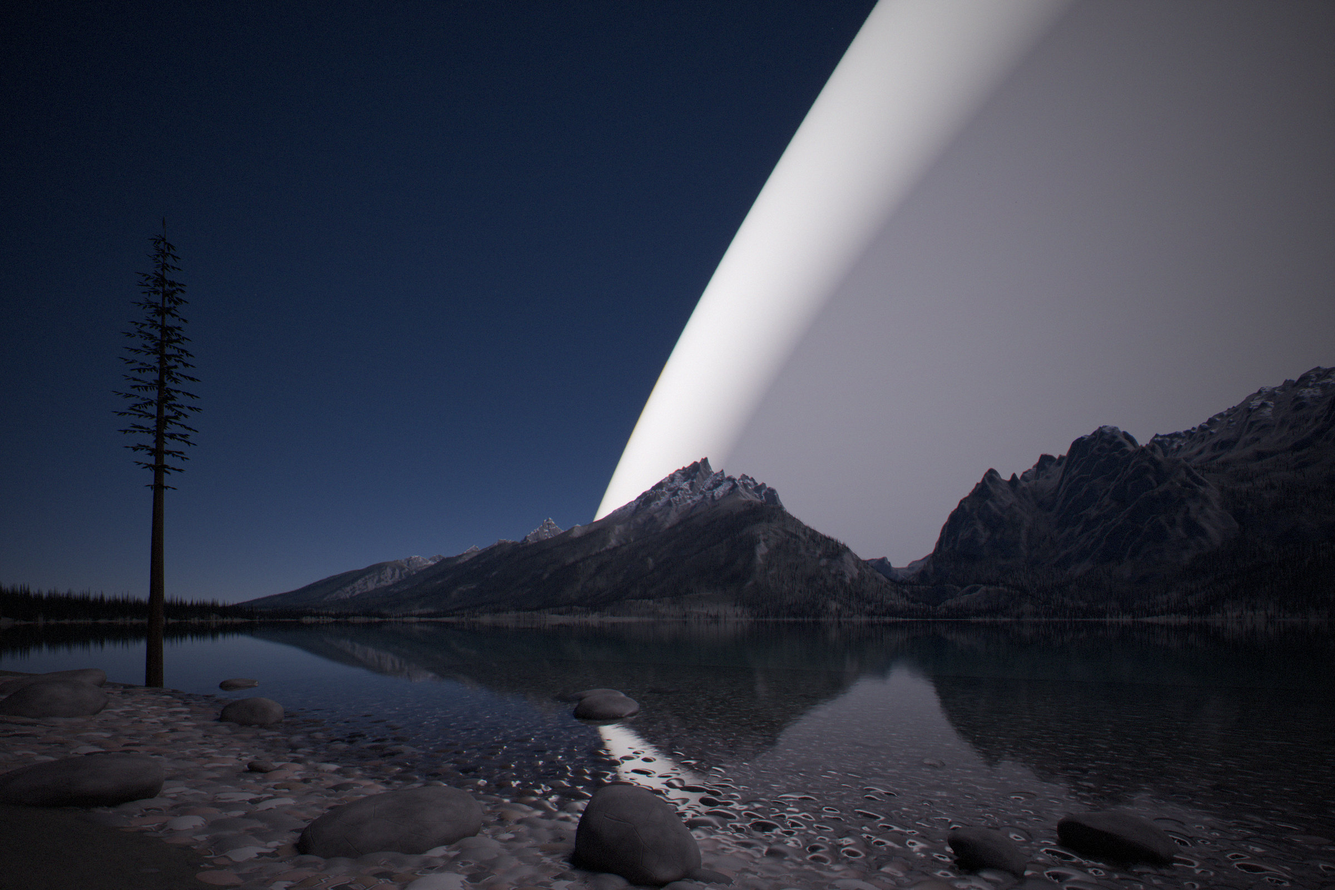
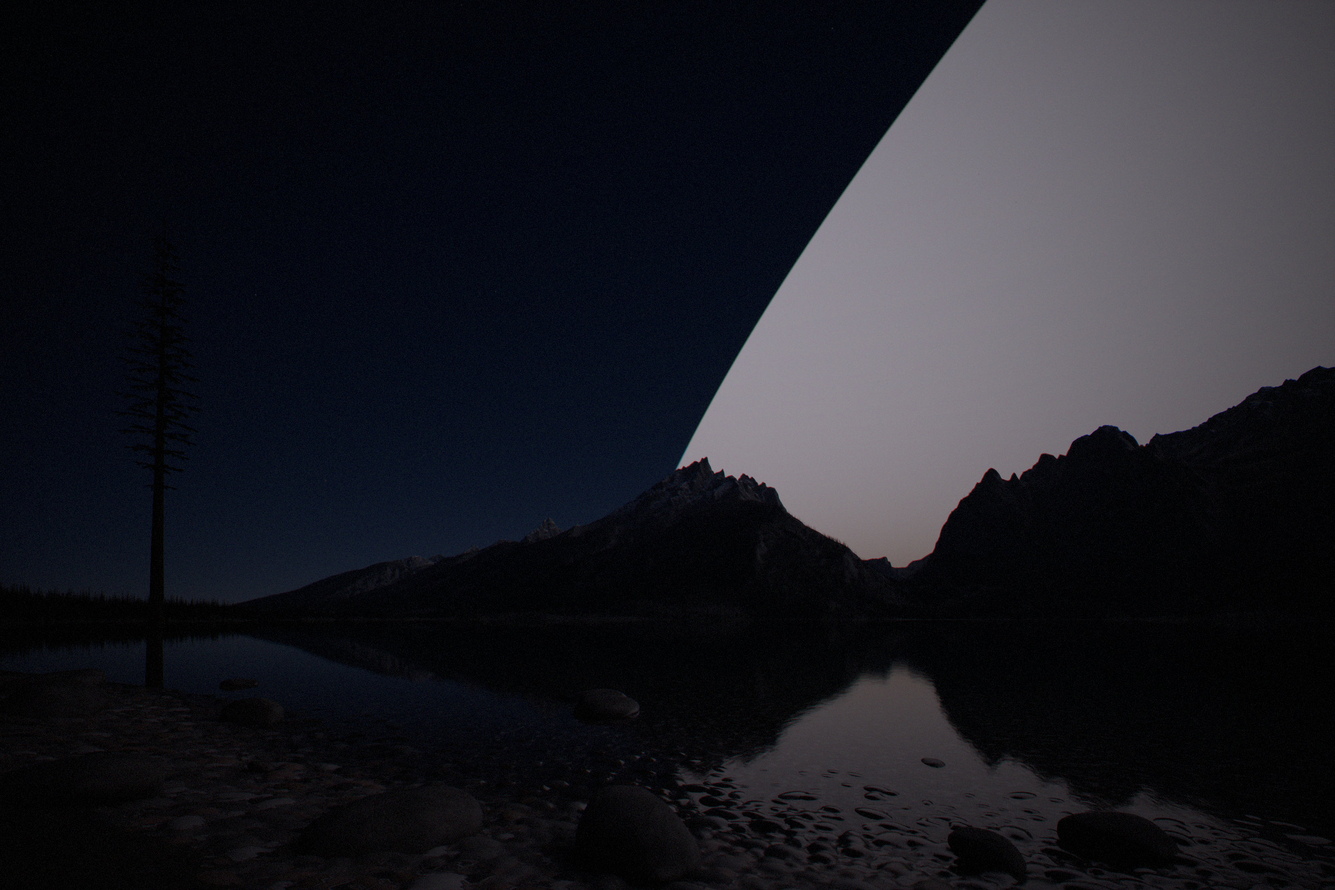
Jenny Lake at 99 %, thin shell, at the 1 % exposure
Claude-Session: https://claude.ai/code/session_01SbDrhYF14UDXonL1ALY6on

diff --git a/index.html b/index.html
@@ -401,8 +401,8 @@ section.stage { border-top: 1px solid var(--rule); }
   <section class="chapter stage" id="stage-0.99" data-f="0.99">
     <div class="col"><div class="kicker"><span class="stage-when" data-f="0.99"></span></div><h2>Darkening</h2><p class="dek">Ninety-nine per cent. The glow is back to where it was at one per cent, and now nothing shines through it.</p></div>
     <figure class="wide">
-      <div class="plate"><img src="renders/stage-night-0.99.jpg" alt="The lake at night: a brilliant arc sweeps across the sky above the range, a dimmer glow inside it, its reflection running across the water" width="2400" height="1600" loading="lazy"></div>
-      <figcaption class="col"><b>Jenny Lake at 99%.</b> Across most of the disc the glow is back to its level at one per cent, and no star shines through it. Round its edge runs a bright band. There a line of sight only grazes the sphere's outer layers and crosses so few sails that the sphere is still half open, so the band shines as brightly as the whole sky did at half. It lights the shore at 5 lux, and its reflection runs across the lake.<span class="how">Same moment. Exposed 9.7 stops less than tonight's frame, metered for the glow, which the band now sets. The band peaks 2° inside the sphere's limb, 76° from the Sun on this date, at 45 cd/m²; inside it, 1.8 cd/m². Earth's window is narrowed by 0.35% to cancel the sphere's heat.</span></figcaption>
+      <div class="plate"><img src="renders/stage-night-0.99.jpg" alt="The lake at night: a glowing disc with a sharp curved edge over the range, the rest of the sky deep blue, as at one per cent" width="2400" height="1600" loading="lazy"></div>
+      <figcaption class="col"><b>Jenny Lake at 99%.</b> At the same exposure as the 1% and half-built frames, it looks like the 1% night again, and it should: the glow goes as f (1 − f), the far side's lit share seen through the near side's gaps, the same at 0.01 and 0.99. The difference is behind it. Of the starlight from beyond the sphere, one part in ten thousand gets through, and between the glow's edge and 76° from the Sun, where only the mirror cap stands, one part in a hundred.<span class="how">Same moment and exposure as the 1% frame. The glow is 1.8 cd/m² out to the shell's edge, 70° from the Sun; the ground is lit at 0.74 lux. Earth's window is narrowed by 0.35% to cancel the sphere's heat.</span></figcaption>
     </figure>
     <figure class="wide">
       <div class="plate"><img src="renders/stage-leo-0.99.jpg" alt="From orbit: a dimmer glowing disc over Earth" width="2400" height="1600" loading="lazy"></div>
